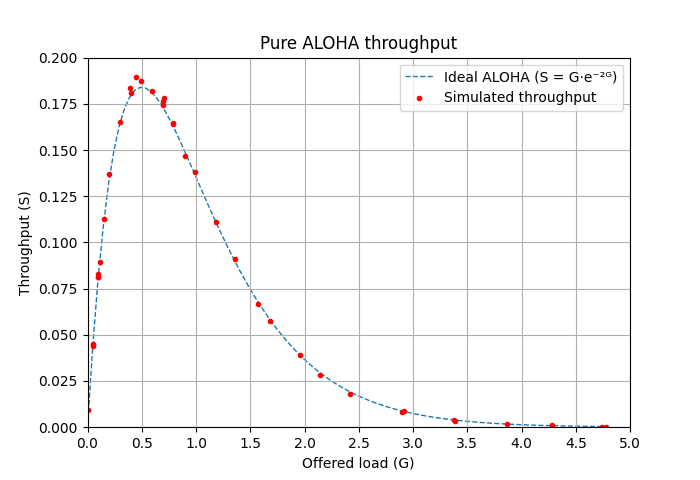
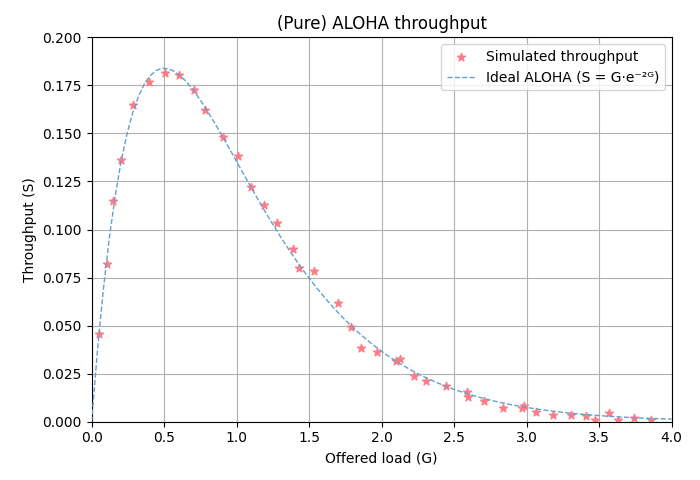
Improved graph colors and re-ran simulations with latest version of the simulator

diff --git a/examples/slotted-aloha/main.py b/examples/slotted-aloha/main.py
@@ -4,12 +4,13 @@ import pandas as pd
 
 sys.path.append('.')
 
+from simulator.lora.phy_layer import LoraPhyLayer
 from simulator.lora.radio import LoraRadio
 from simulator.environment import simulation_env as sim
 from simulator.lora.enums.bandwidth import Bandwidth
 from simulator.lora.enums.code_rate import CodeRate
 from simulator.lora.enums.spreading_factor import SpreadingFactor
-from simulator.lora.airtime import estimate_airtime
+from simulator.lora.airtime import symbol_airtime, estimate_airtime, header_airtime, preamble_airtime
 
 # All nodes must use the exact same radio configuration
 SP = SpreadingFactor.SF7
@@ -17,7 +18,7 @@ BW = Bandwidth.KHz125
 CR = CodeRate.CR4_5
 
 # Target offered load (real value is computed from collected data)
-G = 4.7
+G = float(sys.argv[1].replace(',', '.')) if len(sys.argv) > 1 else 4.0
 
 # Number of nodes to use for the simulation
 NUM_NODES = 100
@@ -34,7 +35,7 @@ SLOT_DURATION = 0.1 + estimate_airtime(
 )
 
 # Total simulation duration (in seconds)
-SIM_DURATION = 1000
+SIM_DURATION = 200
 
 RESULTS_CSV = "examples/slotted-aloha/results.csv"
 
@@ -87,6 +88,11 @@ class Receiver:
 
 
 if __name__ == "__main__":
+    # ALOHA throughput analysis assumes that any overlapping packets cause a collision and full
+    # packet loss so we disable the capture effect for this experiment.
+    phy = LoraPhyLayer()
+    phy.enable_capture_effect = False
+
     nodes = [ Node(node_id=i) for i in range(NUM_NODES) ]
     receiver = Receiver(nodes)
     sim.run(SIM_DURATION)

diff --git a/examples/aloha/main.py b/examples/aloha/main.py
@@ -4,12 +4,13 @@ import pandas as pd
 
 sys.path.append('.')
 
+from simulator.lora.phy_layer import LoraPhyLayer
 from simulator.lora.radio import LoraRadio
 from simulator.environment import simulation_env as sim
 from simulator.lora.enums.bandwidth import Bandwidth
 from simulator.lora.enums.code_rate import CodeRate
 from simulator.lora.enums.spreading_factor import SpreadingFactor
-from simulator.lora.airtime import estimate_airtime
+from simulator.lora.airtime import estimate_airtime, preamble_airtime
 
 # All nodes must use the exact same radio configuration
 SP = SpreadingFactor.SF7
@@ -17,7 +18,7 @@ BW = Bandwidth.KHz125
 CR = CodeRate.CR4_5
 
 # Target offered load (real value is computed from collected data)
-G = 5
+G = float(sys.argv[1].replace(',', '.')) if len(sys.argv) > 1 else 4.0
 
 # Number of nodes to use for the simulation
 NUM_NODES = 100
@@ -34,7 +35,7 @@ PACKET_TIME = estimate_airtime(
 )
 
 # Total simulation duration (in seconds)
-SIM_DURATION = 1000
+SIM_DURATION = 200
 
 RESULTS_CSV = "examples/aloha/results.csv"
 
@@ -83,6 +84,11 @@ class Receiver:
 
 
 if __name__ == "__main__":
+    # ALOHA throughput analysis assumes that any overlapping packets cause a collision and full
+    # packet loss so we disable the capture effect for this experiment.
+    phy = LoraPhyLayer()
+    phy.enable_capture_effect = False
+
     nodes = [ Node(node_id=i) for i in range(NUM_NODES) ]
     receiver = Receiver(nodes)
     sim.run(SIM_DURATION)

diff --git a/examples/aloha/graph.py b/examples/aloha/graph.py
@@ -1,6 +1,9 @@
 import pandas as pd
 import matplotlib.pyplot as plt
 import numpy as np
+import sys
+sys.path.append('.')
+from colors import *
 
 RESULTS_CSV = "examples/aloha/results.csv"
 df = pd.read_csv(RESULTS_CSV)
@@ -8,20 +11,22 @@ df = pd.read_csv(RESULTS_CSV)
 fig, ax = plt.subplots(1,1)
 
 ax.grid(zorder=0)
-ax.set_xlim(0, 5)
-ax.set_xticks(np.arange(0, 5.5, 0.5))
+ax.set_xlim(0, 4)
+ax.set_xticks(np.arange(0, 4.5, 0.5))
 ax.set_xlabel("Offered load (G)")
 
 ax.set_ylim(0, 0.2)
 ax.set_ylabel("Throughput (S)")
 
-ax.set_title("Pure ALOHA throughput")
+ax.set_title("(Pure) ALOHA throughput")
 
-G = np.linspace(0, 5, 100)
+ax.scatter(df["G"], df["S"], color=RED, marker='*',  label='Simulated throughput', zorder=2)
+
+G = np.linspace(0, 4, 100)
 S_ideal = G * np.exp(-2 * G)
-ax.plot(G, S_ideal, linestyle='--', linewidth=1, label='Ideal ALOHA (S = G·e⁻²ᴳ)', zorder=1)
+ax.plot(G, S_ideal, linestyle='--', linewidth=1, label='Ideal ALOHA (S = G·e⁻²ᴳ)', zorder=3, color=BLUE_DARK)
 
-ax.scatter(df["G"], df["S"], color='red', marker='.',  label='Simulated throughput', zorder=2)
+fig.tight_layout()
 
 ax.legend()
 

diff --git a/examples/slotted-aloha/graph.py b/examples/slotted-aloha/graph.py
@@ -1,6 +1,9 @@
 import pandas as pd
 import matplotlib.pyplot as plt
 import numpy as np
+import sys
+sys.path.append('.')
+from colors import *
 
 RESULTS_CSV = "examples/slotted-aloha/results.csv"
 df = pd.read_csv(RESULTS_CSV)
@@ -19,16 +22,17 @@ ax.set_title("Slotted ALOHA throughput")
 
 G = np.linspace(0, 5, 100)
 S_ideal = G * np.exp(-G)
-ax.plot(G, S_ideal, linestyle='--', linewidth=1, label='Ideal slotted ALOHA (S = G·e⁻ᴳ)', zorder=1)
+ax.plot(G, S_ideal, linestyle='--', color=GREEN_DARK, linewidth=1, label='Ideal slotted ALOHA (S = G·e⁻ᴳ)', zorder=1)
 
 G = np.linspace(0, 5, 100)
 S_ideal = G * np.exp(-2 * G)
-ax.plot(G, S_ideal, linestyle='--', linewidth=1, label='Ideal ALOHA (S = G·e⁻²ᴳ)', zorder=1)
+ax.plot(G, S_ideal, linestyle='--', color=BLUE_DARK, linewidth=1, label='Ideal ALOHA (S = G·e⁻²ᴳ)', zorder=1)
 
-ax.scatter(df["G"], df["S"], color='red', marker='.',  label='Simulated throughput', zorder=2)
+ax.scatter(df["G"], df["S"], color=RED, marker='*',  label='Simulated throughput', zorder=2)
 
 ax.legend()
 
+fig.tight_layout()
 fig.set_figwidth(7, 9)
 
 plt.show()

diff --git a/colors.py b/colors.py
@@ -1,0 +1,27 @@
+RED_DARK = '#cc6971'
+RED = "#ff7d88"
+RED_LIGHT = '#ffacb3'
+
+ORANGE_DARK = '#e09458'
+ORANGE = '#ffb982'
+ORANGE_LIGHT = '#ffcfa9'
+
+YELLOW_DARK = '#cca256'
+YELLOW = '#ffcb6b'
+YELLOW_LIGHT = '#ffdb99'
+
+GREEN_DARK = '#98b56e'
+GREEN = '#c3e88d'
+GREEN_LIGHT = '#dbffa5'
+
+CYAN_DARK = '#7db9b5'
+CYAN = '#9fece7'
+CYAN_LIGHT = '#c5fffb'
+
+BLUE_DARK = "#5babe1"
+BLUE = '#7bcbff'
+BLUE_LIGHT = '#9cd8ff'
+
+MAGENTA_DARK = '#b28ecc'
+MAGENTA = '#deb2ff'
+MAGENTA_LIGHT = '#e9cbff'
